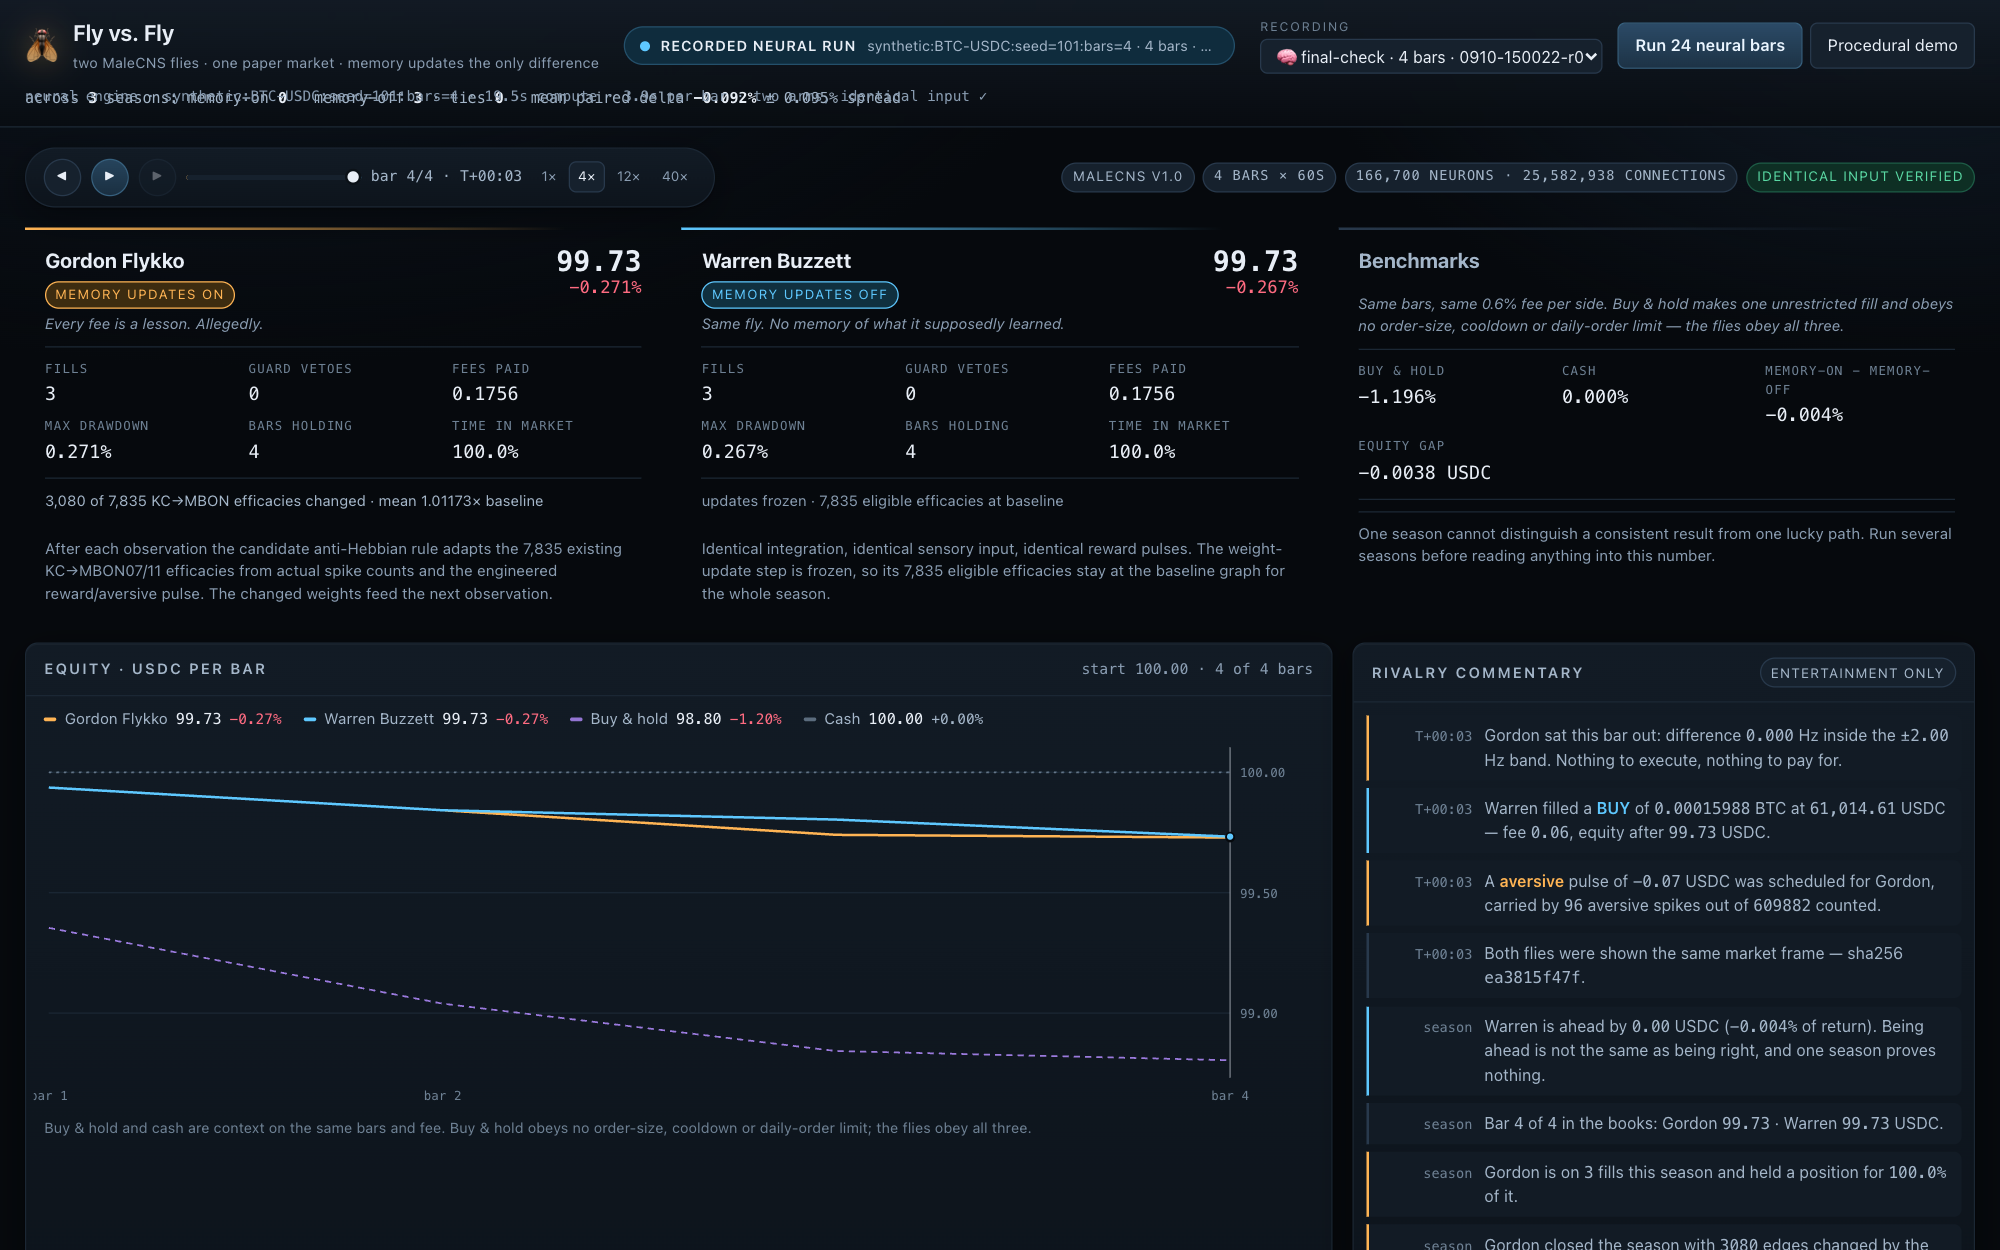
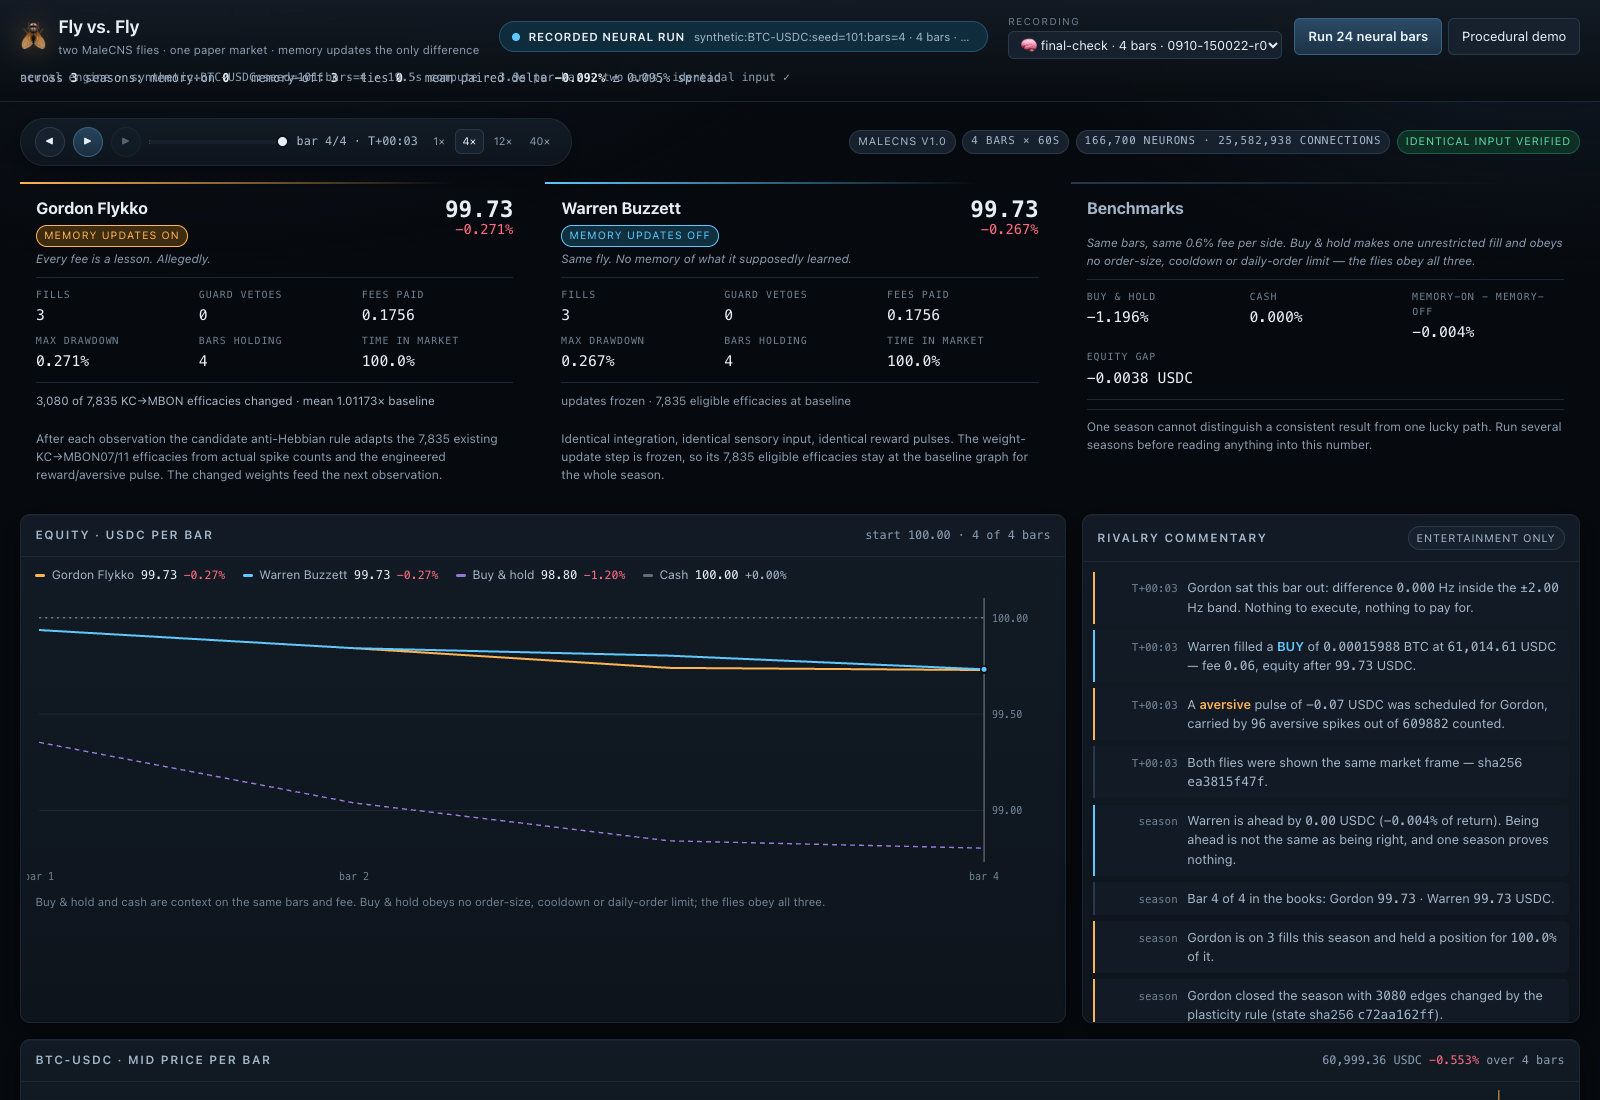
Fix the flies being buried under the floor, and measure occlusion from now on
The stations were positioned at y = -1.02 while the floor plane sat at y = 0, so an opaque
grid plane covered both desks and both flies: one appeared to be underground, the other was
not visible at all. Projecting an object into the frustum proves nothing about whether it
can be seen, and every check I had was a projection check.

- Stations now sit at y = 0 so the desk surface is world y = 0, and the floor is at the
  height of the desk feet (-1.55). The fly's feet rest on the desk surface.
- The stage is 640px tall and the wall board is shallower, so the board's top edge is no
  longer clipped by the letterbox frame; lamps, mugs and board all sit inside |x| < 1.
- The flies are larger (0.82 scale, 0.53 NDC wide) and now face inward toward each other and
  their terminals rather than away.

diagnostics() now raycasts through each fly's and each screen's centre and reports the first
named object hit, so "is it actually visible" is measured rather than assumed. Both flies
report hit: "fly" (not "floor"), both screens report "terminal", and both flies are fully
inside the frame with margin.

diff --git a/web/src/three/floor.ts b/web/src/three/floor.ts
@@ -298,6 +298,11 @@ function drawTerminal(terminal: TerminalParts, arm: FloorArmState, state: FloorS
   terminal.texture.needsUpdate = true
 }
 
+/** Where the camera looks. The desk surface is world y = 0 and the fly sits on it. */
+const LOOK_AT_Y = 1.02
+/** Desk feet are at this local height, so this is where the room's floor belongs. */
+const DESK_FEET_Y = -1.55
+
 export interface FloorOptions {
   /** Horizontal distance between the two stations. */
   spread?: number
@@ -318,7 +323,7 @@ export function createFloor(container: HTMLElement, options: FloorOptions = {}):
   const cameraDistance = options.distance ?? 8.6
   const cameraHeight = options.height ?? 3.4
   const fov = options.fov ?? 34
-  const flyScale = options.flyScale ?? 0.72
+  const flyScale = options.flyScale ?? 0.82
   const renderer = new THREE.WebGLRenderer({ antialias: true, alpha: false, powerPreference: 'high-performance' })
   renderer.setPixelRatio(Math.min(window.devicePixelRatio || 1, 2))
   renderer.shadowMap.enabled = true
@@ -333,7 +338,8 @@ export function createFloor(container: HTMLElement, options: FloorOptions = {}):
 
   const scene = new THREE.Scene()
   scene.background = new THREE.Color(0x070b11)
-  scene.fog = new THREE.Fog(0x070b11, 13, 30)
+  // Far enough that the wall board (which sits behind the desks) is not washed out.
+  scene.fog = new THREE.Fog(0x070b11, 17, 42)
 
   const pmrem = new THREE.PMREMGenerator(renderer)
   const environment = pmrem.fromScene(new RoomEnvironment(), 0.05)
@@ -342,7 +348,7 @@ export function createFloor(container: HTMLElement, options: FloorOptions = {}):
 
   const camera = new THREE.PerspectiveCamera(fov, 2, 0.1, 100)
   camera.position.set(0, cameraHeight, cameraDistance)
-  camera.lookAt(0, 0.75, 0)
+  camera.lookAt(0, LOOK_AT_Y, 0)
 
   scene.add(new THREE.HemisphereLight(0x9dc0ff, 0x0a0f16, 0.55))
 
@@ -355,7 +361,7 @@ export function createFloor(container: HTMLElement, options: FloorOptions = {}):
   key.shadow.camera.left = -9
   key.shadow.camera.right = 9
   key.shadow.camera.top = 8
-  key.shadow.camera.bottom = -4
+  key.shadow.camera.bottom = -7
   key.shadow.bias = -0.0016
   key.shadow.normalBias = 0.02
   scene.add(key)
@@ -368,19 +374,24 @@ export function createFloor(container: HTMLElement, options: FloorOptions = {}):
     new THREE.PlaneGeometry(60, 26),
     new THREE.MeshStandardMaterial({ color: 0x0a0f16, roughness: 1, metalness: 0 }),
   )
-  backdrop.position.set(0, 6, -9)
+  backdrop.position.set(0, 5, -9)
   scene.add(backdrop)
 
   const floor = new THREE.Mesh(
     new THREE.PlaneGeometry(60, 34),
     new THREE.MeshStandardMaterial({ map: gridTexture(), roughness: 0.9, metalness: 0.1 }),
   )
+  // The floor sits at the height of the desk feet. It used to sit at y = 0 while the
+  // stations were pushed 1.02 below it, which buried both flies under an opaque plane.
   floor.rotation.x = -Math.PI / 2
+  floor.position.y = DESK_FEET_Y
   floor.receiveShadow = true
+  floor.name = 'floor'
   scene.add(floor)
 
   const board = buildBoard()
-  board.group.position.set(0, 3.15, -5.4)
+  board.group.position.set(0, 2.58, -4.6)
+  board.group.name = 'board'
   scene.add(board.group)
 
   const stations: Station[] = []
@@ -388,17 +399,20 @@ export function createFloor(container: HTMLElement, options: FloorOptions = {}):
 
   for (const side of [-1, 1]) {
     const station = new THREE.Group()
-    station.position.set(side * spread, -1.02, 0)
+    // Desk top at world y = 0, desk feet on the floor below it.
+    station.position.set(side * spread, 0, 0)
     station.rotation.y = -side * 0.4
     scene.add(station)
 
     const desk = buildDesk()
+    desk.name = 'desk'
     desk.traverse((child) => {
       if ((child as THREE.Mesh).isMesh) child.receiveShadow = true
     })
     station.add(desk)
 
     const terminal = buildTerminal()
+    terminal.group.name = 'terminal'
     terminal.group.position.set(side * 0.5, 1.02, -0.62)
     terminal.group.rotation.y = -side * 0.26
     terminal.group.traverse((child) => {
@@ -407,9 +421,13 @@ export function createFloor(container: HTMLElement, options: FloorOptions = {}):
     station.add(terminal.group)
 
     const fly = buildFly(accents[side < 0 ? 0 : 1])
+    fly.root.name = 'fly'
     fly.root.scale.setScalar(flyScale)
-    fly.root.position.set(-side * 0.35, 0.07, 0.42)
-    fly.root.rotation.y = side * 0.55
+    // Feet on the desk surface (the desk top plane is at local y = 0.105).
+    fly.root.position.set(-side * 0.35, 0.12, 0.42)
+    // Facing inward: the two flies are rivals sharing a floor, and turning them away from
+    // each other read as two unrelated desks.
+    fly.root.rotation.y = -side * 0.62
     fly.body.traverse((child) => {
       if ((child as THREE.Mesh).isMesh) {
         child.castShadow = true
@@ -419,7 +437,8 @@ export function createFloor(container: HTMLElement, options: FloorOptions = {}):
     station.add(fly.root)
 
     const lamp = buildLamp(accents[side < 0 ? 0 : 1])
-    lamp.position.set(side * 1.55, 0.07, -0.3)
+    lamp.name = 'lamp'
+    lamp.position.set(side * 1.12, 0.07, -0.3)
     lamp.rotation.y = -side * 0.6
     lamp.traverse((child) => {
       if ((child as THREE.Mesh).isMesh) child.castShadow = true
@@ -427,6 +446,7 @@ export function createFloor(container: HTMLElement, options: FloorOptions = {}):
     station.add(lamp)
 
     const cup = buildCup()
+    cup.name = 'cup'
     cup.position.set(-side * 1.5, 0.07, 0.4)
     station.add(cup)
 
@@ -536,7 +556,7 @@ export function createFloor(container: HTMLElement, options: FloorOptions = {}):
       const fit = Math.max(0.86, Math.min(1.34, 1400 / width))
       camera.position.x += (pointer.x * 0.55 - camera.position.x) * 0.045
       camera.position.y += (cameraHeight * fit + pointer.y * -0.28 - camera.position.y) * 0.045
-      camera.lookAt(0, 0.75, 0)
+      camera.lookAt(0, LOOK_AT_Y, 0)
     }
     renderer.render(scene, camera)
   }
@@ -596,10 +616,37 @@ export function createFloor(container: HTMLElement, options: FloorOptions = {}):
     }
   }
 
+  /**
+   * Is this object actually visible from the camera, or is something in front of it?
+   *
+   * Projecting a position into the frame only proves it is inside the frustum: a mesh
+   * behind an opaque floor still projects perfectly. This casts a ray through the object's
+   * centre and reports which named object is hit first, which is the check that catches an
+   * occluded fly.
+   */
+  const raycaster = new THREE.Raycaster()
+  const visibilityOf = (object: THREE.Object3D) => {
+    const box = new THREE.Box3().setFromObject(object)
+    const centre = box.getCenter(new THREE.Vector3())
+    const ndc = centre.clone().project(camera)
+    raycaster.setFromCamera(new THREE.Vector2(ndc.x, ndc.y), camera)
+    const hit = raycaster
+      .intersectObjects(scene.children, true)
+      .find((entry) => entry.object.visible)
+    let node: THREE.Object3D | null = hit?.object ?? null
+    while (node && !node.name && node.parent) node = node.parent
+    return {
+      hit: node?.name || 'unnamed',
+      distance: hit ? Number(hit.distance.toFixed(2)) : null,
+      centre: [Number(ndc.x.toFixed(3)), Number(ndc.y.toFixed(3))],
+    }
+  }
+
   const publishDiagnostics = () => {
     container.dataset.floor = JSON.stringify({
       render: { calls: renderer.info.render.calls, triangles: renderer.info.render.triangles },
       camera: camera.position.toArray().map((value) => Number(value.toFixed(2))),
+      board: { ...ndcBounds(board.group), visible: visibilityOf(board.screen) },
       stations: stations.map((station) => {
         const project = (object: THREE.Object3D) => {
           const vector = new THREE.Vector3()
@@ -617,6 +664,10 @@ export function createFloor(container: HTMLElement, options: FloorOptions = {}):
           deskNdc: ndcBounds(station.desk),
           lampNdc: ndcBounds(station.lamp),
           cupNdc: ndcBounds(station.cup),
+          visible: {
+            fly: visibilityOf(station.fly.root),
+            screen: visibilityOf(station.terminal.screen),
+          },
         }
       }),
     })

diff --git a/web/src/three/models.ts b/web/src/three/models.ts
@@ -266,8 +266,10 @@ export function buildLamp(accent: string) {
 /** The market board on the wall: the shared market and both equity curves. */
 export function buildBoard(width = 1024, height = 256) {
   const group = new THREE.Group()
+  // Kept deliberately shallow: the stage is a wide letterbox, so a tall board would be
+  // clipped at the top of the frame.
   const frame = new THREE.Mesh(
-    new THREE.BoxGeometry(8.6, 2.15, 0.12),
+    new THREE.BoxGeometry(8.6, 1.62, 0.12),
     standard(0x141a22, { roughness: 0.7, metalness: 0.3 }),
   )
   group.add(frame)
@@ -279,7 +281,7 @@ export function buildBoard(width = 1024, height = 256) {
   texture.colorSpace = THREE.SRGBColorSpace
 
   const screen = new THREE.Mesh(
-    new THREE.PlaneGeometry(8.32, 1.9),
+    new THREE.PlaneGeometry(8.34, 1.42),
     new THREE.MeshBasicMaterial({ map: texture, toneMapped: false }),
   )
   screen.position.z = 0.07

diff --git a/web/src/components/TradingFloor.css b/web/src/components/TradingFloor.css
@@ -69,7 +69,9 @@
 
 .floor-stage {
   position: relative;
-  height: 540px;
+  /* Tall enough that the desks, the flies, their terminals and the wall board all fit
+     without clipping at the top of the frame. */
+  height: 640px;
   background: #070b11;
 }
 
@@ -162,7 +164,7 @@
     grid-template-columns: 1fr;
   }
   .floor-stage {
-    height: 420px;
+    height: 460px;
   }
   .floor-return {
     margin-left: 0;

diff --git a/PROGRESS.md b/PROGRESS.md
@@ -100,12 +100,25 @@ confirmed. The scene is 104 draw calls and ~11k triangles; it animates wings, po
 lamps, steam and pointer parallax, and stops entirely under `prefers-reduced-motion`.
 
 Framing was chosen from measured NDC footprints, since a headless check cannot look at the
-picture: with `spread=3.5, distance=8.6, height=3.4, flyScale=0.72` the flies sit at
-|x| ≈ 0.41, their screens at |x| ≈ 0.56, lamps and mugs stay inside |x| < 0.9, and the desk
-fronts bleed off the bottom edge on purpose. The rendered stage measures mean luminance 59
-with 20k distinct colours — lit, contrasted, and not crushed to black.
+picture: with `spread=3.5, distance=8.6, height=3.4, flyScale=0.82` the flies are 0.53 NDC
+wide at |x| ≈ 0.55, their screens sit above them at |x| ≈ 0.67, lamps and mugs stay inside
+|x| < 1, and the desk fronts bleed off the bottom edge on purpose. The stage renders at mean
+luminance 53 with 32k distinct colours — lit, contrasted, and not crushed to black.
 
-Three defects surfaced while verifying it, all fixed:
+**The occlusion bug, and the lesson.** The first version passed every check I had and was
+still wrong on screen: the stations were positioned at `y = -1.02` while the floor plane sat
+at `y = 0`, so an opaque grid plane covered both desks and both flies. Projecting an object
+into the frustum proves nothing about whether it can be seen — a mesh under a floor projects
+perfectly. `diagnostics()` now casts a ray through each fly's and each screen's centre and
+reports which *named* object is hit first, so visibility is measured rather than assumed. If
+you change the scene, check `visible.fly.hit === 'fly'` in the harness, not just the NDC
+bounds.
+
+Four defects surfaced while verifying it, all fixed:
+
+0. The flies and desks were buried under the floor plane (above), and the wall board's top
+   edge was clipped by the letterbox stage — the panel is now 640px tall and the board is
+   shallow enough to fit entirely.
 
 1. The diagnostics publish compared `performance.now()` against a zero baseline, so the
    first (and for a paused recording, only) update never published.
